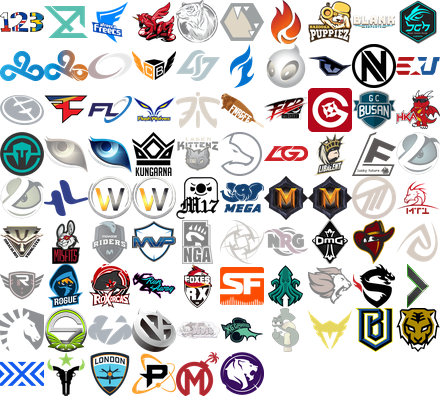
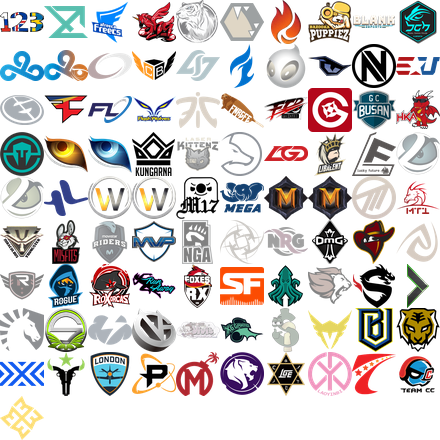
sub-header overflow hidden NEW moving over content in small width fixed Ad layout fixed

diff --git a/src/styles.css b/src/styles.css
@@ -27,7 +27,6 @@ SOFTWARE.*/
 body {
 	background: #E8E8E9;
 	font-family: -apple-system,BlinkMacSystemFont,"Helvetica Neue",Helvetica,Arial,sans-serif;
-	min-width: 920px;
 	overflow-x: hidden;
 }
 html.res-nightmode body {
@@ -679,6 +678,7 @@ body #userbarToggle {
 	box-sizing: border-box;
 	font-weight: normal;
 	transition: 0.15s background ease-in-out;
+	overflow: hidden;
 }
 .res-nightmode .side .md > h6:first-of-type > strong a {
 	border-color: #191919;
@@ -1309,7 +1309,7 @@ body.res-nightmode .side .md h2:nth-of-type(1) a {
 .side .md blockquote h3:nth-of-type(2) {
 	top: 0;
 	left: 0;
-	width: 32px;
+	width: 36px;
 	height: 20px;
 	line-height: 20px;
 	font-size: 14px;
@@ -1319,8 +1319,13 @@ body.res-nightmode .side .md h2:nth-of-type(1) a {
 }
 .res-nightmode .side .md blockquote h3:nth-of-type(2) {
 	background: #505050;
-	
 }
+.side .md blockquote h3:nth-of-type(2) strong {
+	color: #f64e44;
+}
+
+
+
 .side .md blockquote h3:nth-of-type(3) {
 	width: 120px;
 	text-align: left;
@@ -1790,6 +1795,13 @@ body .res-filterline-dropdown-container {
 	width: 2px;
 	background-color: #5194c4;
 }
+
+/* promoted link */
+
+.link.promotedlink {
+	padding: 0;
+}
+
 /* Remove dashed border for last clicked link */
 .link.last-clicked {
 	border: none;
@@ -1822,11 +1834,6 @@ body:not(.res-nightmode) .listing-page .thing:hover {
 	background: #FFF;
 }
 
-/* Left margin for promoted post */
-#siteTable_organic .entry {
-	margin-left: 180px;
-}
-
 body .entry {
 	margin-left: 0; /* Reddit defaults to 3px */
 	flex: 1 0;
@@ -1836,11 +1843,11 @@ body .entry {
 }
 
 .thing .title {
-	color: #042E54;
+	color: #00183E;
 }
 
 .thing .title:visited, .thing .title.visited {
-	color: #6a6f75 !important;
+	color: #888d93 !important;
 }
 
 .listing-page a.title:hover {
@@ -1932,10 +1939,6 @@ body.res-nightmode .expando-button.collapsed::after, body.res-nightmode .expando
 
 .listing-page .expando-button {
 	margin-top: 13px;
-}
-
-.comment-permalink-page .expando-button {
-	display: none;
 }
 
 .comments-page .expando-button {
@@ -2273,10 +2276,6 @@ body.res-nightmode .link .midcol {
 	background: #313131;
 }
 
-#siteTable_organic .link .midcol {
-	margin-left: 128px;
-}
-
 .link .score {
 	color: #9B9EA2;
 	font-size: 13px;
@@ -2493,6 +2492,16 @@ a[href*="-r09"]:before {
 a[href*="-r10"]:before {
     background: 0 -198px
 }
+.flair[class*="-r11"]:before,
+.flair[class*="-2r11"]:after,
+a[href*="-r11"]:before {
+    background: 0 -220px
+}
+.flair[class*="-r12"]:before,
+.flair[class*="-2r12"]:after,
+a[href*="-r12"]:before {
+    background: 0 -242px
+}
 /*columns*/
 .flair[class*="-c01"]:before,
 .flair[class*="-2c01"]:after,
@@ -2576,7 +2585,7 @@ a[href^="#teams"]:before {
     height: 22px;
     position: absolute;
     color: transparent;
-	background-size: 220px 198px;
+	background-size: 220px 220px;
 }
 /* Retina/HiDPI */
 @media (-webkit-min-device-pixel-ratio: 2), (min-device-pixel-ratio: 2), (min-resolution: 2dppx) {
@@ -2586,7 +2595,7 @@ a[href^="#teams"]:before {
 	.flair:after,
 	a[href^="#teams"]:before {
 		background-image:url(%%flairs-teams-2x%%);
-		background-size: 220px 198px;
+		background-size: 220px 220px;
 	}
 }
 
